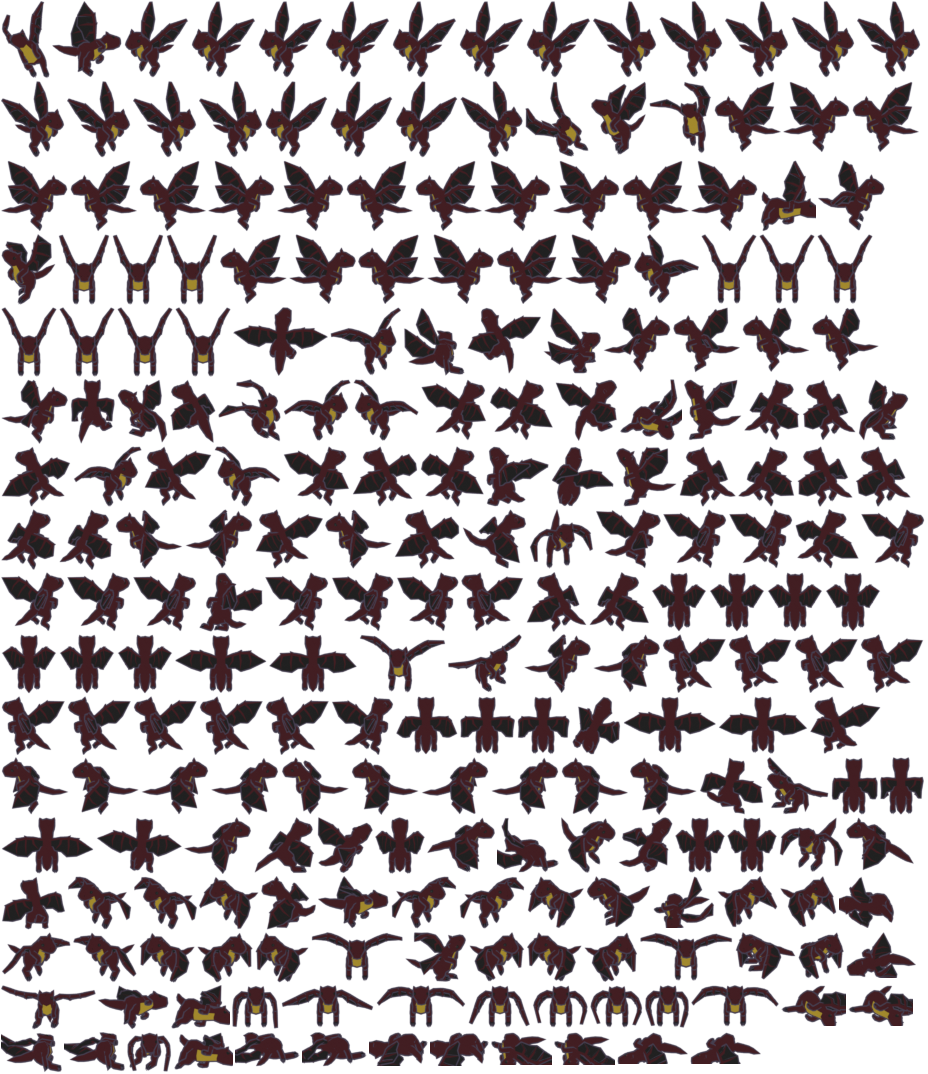
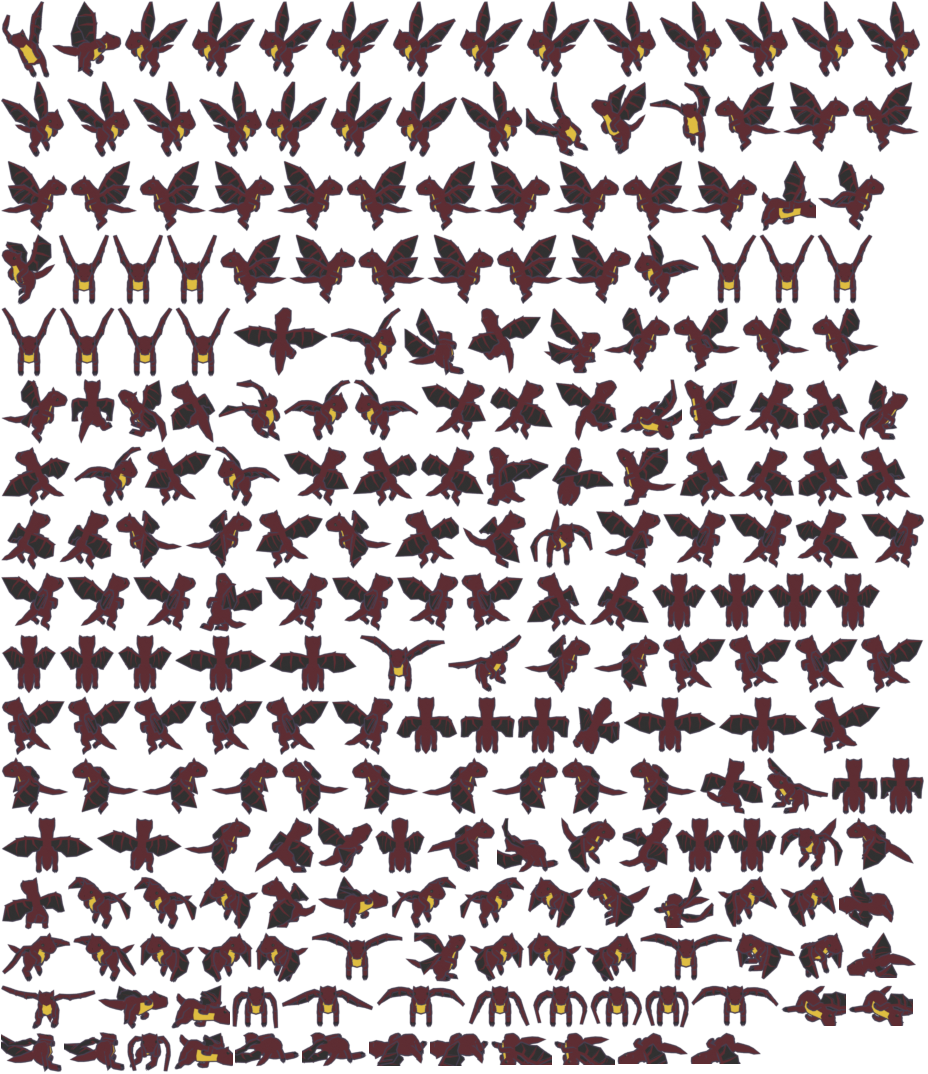
Every monster species gets a model, sprites tinted by element, brighter dragon atlas

diff --git a/shared/src/tuning.ts b/shared/src/tuning.ts
@@ -146,6 +146,8 @@ export interface Tuning {
   outfits: { rules: Array<{ minRealm: number; outfit: string }> };
   /** Which sprite model draws a species (`monster.<species>` is tried first): species id -> model key (`monster.<model>`). Several species can share one model; a species with neither is drawn as the square. */
   monsterModels: Record<string, string>;
+  /** The colour a monster sprite is multiplied by, by element (`#rrggbb`), so one model looks different in each element; an element without one is drawn in the model's own colours. */
+  monsterTints: Record<string, string>;
   /** How each map is drawn: ground details and the shape of the small obstacles (trees, rocks...), by map id; a map without an entry is drawn plain. */
   mapArt: { maps: Record<string, { ground: GroundStyle; obstacle: ObstacleStyle; mix?: ObstacleStyle[] }> };
   /** How the NPCs look: a player body with an optional outfit and weapon, by NPC id (a trailing number is ignored: `smith2` is `smith`) or else by kind. */
@@ -417,7 +419,26 @@ export const DEFAULT_TUNING: Readonly<Tuning> = {
   },
   alchemy: DEFAULT_ALCHEMY,
   outfits: { rules: [{ minRealm: 0, outfit: "ranger" }] },
-  monsterModels: { doi_u_minh: "bat", thi_quy: "skeleton", xich_thi: "skeleton", han_thi_ma: "skeleton", hoa_long_vuong: "dragon" },
+  // Only three models exist so far (bat, skeleton, dragon): flyers use the bat, undead and apes the skeleton, every beast, snake and boss the dragon.
+  monsterModels: {
+    doi_u_minh: "bat",
+    bang_phong_hac: "bat",
+    thi_quy: "skeleton",
+    xich_thi: "skeleton",
+    han_thi_ma: "skeleton",
+    quy_vuong: "skeleton",
+    tuyet_yeu_hau: "skeleton",
+    hoa_long_vuong: "dragon",
+    bang_hoang: "dragon",
+    huyet_lang_vuong: "dragon",
+    soi_rung: "dragon",
+    heo_rung: "dragon",
+    bao_dem: "dragon",
+    hoa_dien_lang: "dragon",
+    nham_giap_thu: "dragon",
+    liet_hoa_xa: "dragon",
+  },
+  monsterTints: { kim: "#ffe27a", moc: "#8fe08f", thuy: "#7ab8ff", hoa: "#ff8a6a", tho: "#d2a878", loi: "#b89cff", bang: "#a4f0ff", phong: "#a6ebd9" },
   mapArt: {
     maps: {
       town: { ground: "grass", obstacle: "tree", mix: ["tree", "tree", "tree", "bush", "bush", "stump", "rock"] },
@@ -472,6 +493,7 @@ export const TUNING_LABELS_VI: Readonly<Record<TuningGroup, string>> = {
   boss: "Boss bản đồ: thời hạn giữ, bậc trả thưởng, loài của từng bản đồ",
   alchemy: "Luyện đan của Đan Sư: số mẻ luyện cùng lúc và các công thức",
   outfits: "Trang phục hiện trên nhân vật theo cảnh giới của áo đang mặc",
+  monsterTints: "Màu phủ lên hình quái theo hệ (một mô hình trông khác nhau ở mỗi hệ)",
   monsterModels: "Hình quái: loài quái nào dùng mô hình nào (một mô hình có thể dùng chung cho nhiều loài)",
   mapArt: "Hình bản đồ: kiểu nền và kiểu vật cản nhỏ (cây, đá, cột, tinh thể) của từng bản đồ",
   npcLooks: "Hình NPC: thân nam hoặc nữ, trang phục và vũ khí, theo mã NPC hoặc theo loại NPC",
@@ -743,6 +765,8 @@ export function validTuningGroup(group: string, value: unknown): boolean {
       const table = (t: unknown): boolean => obj(t) && Object.keys(t).length <= 100 && Object.entries(t).every(([k, v]) => /^[a-z0-9_]{1,24}$/.test(k) && look(v));
       return table(value.byKind) && table(value.byId);
     }
+    case "monsterTints":
+      return Object.keys(value).length <= 20 && Object.entries(value).every(([k, v]) => /^[a-z]{1,16}$/.test(k) && typeof v === "string" && /^#[0-9a-fA-F]{6}$/.test(v));
     case "monsterModels":
       return Object.keys(value).length <= 100 && Object.entries(value).every(([k, v]) => /^[a-z0-9_]{1,24}$/.test(k) && typeof v === "string" && /^[a-z]{1,16}$/.test(v));
     case "outfits":

diff --git a/client/src/gfx/kit.ts b/client/src/gfx/kit.ts
@@ -1,5 +1,5 @@
 import Phaser from "phaser";
-import { EMPTY_MANIFEST, GFX_ANIMS, animKey, atlasesForMap, frameName, tuning, validateManifest, type GfxAnimName, type GfxManifest, type GfxSprite } from "@game/shared";
+import { EMPTY_MANIFEST, GFX_ANIMS, animKey, atlasesForMap, frameName, monsterModelOf, tuning, validateManifest, type GfxAnimName, type GfxManifest, type GfxSprite } from "@game/shared";
 
 /** Where the manifest and the atlases are served from (client/public/gfx). */
 const BASE = "/gfx/";
@@ -84,6 +84,12 @@ export class GfxView {
   }
 
   private k = 1;
+
+  /** Multiplies the sprite's colours by `color` (0xRRGGBB); undefined shows the model's own colours. */
+  setTint(color: number | undefined): void {
+    if (color === undefined) this.sprite.clearTint();
+    else this.sprite.setTint(color);
+  }
 
   /** How far above the feet the top of the head is on screen, in px (names and bars stand above it). */
   rise(): number {
@@ -274,7 +280,7 @@ export class GfxKit {
     if (!this.active) return undefined;
     // A player variant is `<body>` or `<body>.<outfit>`: the outfit sprite, then the plain body, then any player sprite.
     const candidates =
-      kind === "player" ? [...(variant ?? "").split(".").map((_, i, parts) => `player.${parts.slice(0, parts.length - i).join(".")}`).filter((k) => k !== "player."), "player"] : kind === "monster" ? [`monster.${id ?? ""}`, ...(id && tuning().monsterModels[id] ? [`monster.${tuning().monsterModels[id]}`] : [])] : kind === "weapon" ? [`weapon.${id ?? ""}.${variant ?? ""}`] : ["guard"];
+      kind === "player" ? [...(variant ?? "").split(".").map((_, i, parts) => `player.${parts.slice(0, parts.length - i).join(".")}`).filter((k) => k !== "player."), "player"] : kind === "monster" ? [`monster.${id ?? ""}`, ...(id && monsterModelOf(id) ? [`monster.${monsterModelOf(id)}`] : [])] : kind === "weapon" ? [`weapon.${id ?? ""}.${variant ?? ""}`] : ["guard"];
     for (const k of candidates) {
       if (k === "") continue;
       if (this.usable(k)) return k;

diff --git a/shared/src/map-art.test.ts b/shared/src/map-art.test.ts
@@ -1,5 +1,5 @@
 import { afterEach, describe, expect, it } from "vitest";
-import { CELLS_PER_TILE, DEFAULT_TUNING, SMALL_BLOB_CELLS, getMap, guardLookOf, hash2, isCellWalkable, mapArtOf, npcLookOf, obstacleBlobs, obstacleStyleOf, resetTuning, setTuning, validTuningGroup } from "./index";
+import { CELLS_PER_TILE, DEFAULT_TUNING, SMALL_BLOB_CELLS, getMap, guardLookOf, hash2, isCellWalkable, mapArtOf, monsterModelOf, monsterTintOf, MONSTERS, npcLookOf, obstacleBlobs, obstacleStyleOf, resetTuning, setTuning, validTuningGroup } from "./index";
 
 afterEach(() => resetTuning());
 
@@ -91,6 +91,15 @@ describe("map art and NPC looks", () => {
     expect(guardLookOf().weapon).toBeTruthy();
     setTuning({ npcLooks: { byKind: {}, byId: {} } });
     expect(guardLookOf()).toEqual(DEFAULT_TUNING.npcLooks.byKind.guard);
+  });
+
+  it("every species has a model and every element a tint, even from a table stored before they existed", () => {
+    setTuning({ monsterModels: {} });
+    for (const id of Object.keys(MONSTERS).filter((k) => k !== "ve_binh")) expect(monsterModelOf(id), id).toBeTruthy(); // a guard is a player body
+    for (const e of ["kim", "moc", "thuy", "hoa", "tho", "loi", "bang", "phong"]) expect(monsterTintOf(e), e).toBeTypeOf("number");
+    expect(monsterTintOf("nope")).toBeUndefined();
+    expect(validTuningGroup("monsterTints", DEFAULT_TUNING.monsterTints)).toBe(true);
+    expect(validTuningGroup("monsterTints", { hoa: "red" })).toBe(false);
   });
 
   it("validates both groups", () => {

diff --git a/shared/src/monster-look.ts b/shared/src/monster-look.ts
@@ -1,0 +1,12 @@
+import { DEFAULT_TUNING, tuning } from "./tuning";
+
+/** The sprite model of a species from the tuning `monsterModels` (a stored table from before a species got a model falls back to the default one). */
+export function monsterModelOf(species: string): string | undefined {
+  return tuning().monsterModels[species] ?? DEFAULT_TUNING.monsterModels[species];
+}
+
+/** The colour (0xRRGGBB) a monster sprite of this element is multiplied by, or undefined to keep the model's colours. */
+export function monsterTintOf(element: string): number | undefined {
+  const hex = tuning().monsterTints[element];
+  return hex && /^#[0-9a-fA-F]{6}$/.test(hex) ? parseInt(hex.slice(1), 16) : undefined;
+}

diff --git a/client/src/scene.ts b/client/src/scene.ts
@@ -41,6 +41,7 @@ import {
   isMapId,
   mapArtOf,
   guardLookOf,
+  monsterTintOf,
   npcLookOf,
   playRectPixels,
   portalNear,
@@ -1605,6 +1606,7 @@ export class GameScene extends Phaser.Scene {
     }
     const scale = (look?.scale ?? 1) * (m.boss ? 2 : m.rank === "rare2" ? 1.4 : m.rank === "rare1" ? 1.2 : 1);
     m.view.setScale(scale);
+    if (!look) m.view.setTint(monsterTintOf(m.element)); // one model, a colour for each element
     m.view.play(positionAlongPath(m.path, now - m.startedAt, m.speed).moving ? "run" : "idle", headingAlongPath(m.path, now - m.startedAt, m.speed) ?? m.view.dir);
     if (!m.view.alive) return;
     m.view.place(x, y, depth);

diff --git a/shared/src/index.ts b/shared/src/index.ts
@@ -35,6 +35,7 @@ export * from "./gear-names";
 export * from "./outfit";
 export * from "./art-styles";
 export * from "./map-art";
+export * from "./monster-look";
 export * from "./npc-look";
 export * from "./smith";
 export * from "./gear-master";

diff --git a/docs/PHASE4.md b/docs/PHASE4.md
@@ -175,6 +175,7 @@ Một lệnh biến một mô hình có xương và animation thành atlas: `nod
   - **Vệ binh dùng chung `npcLooks`:** vệ binh là thân người chơi theo `npcLooks.byKind.guard` (mặc định nam, Ranger, cầm thương, `scale` 1,5), có sprite vũ khí theo khung của thân; trường `scale` mới (0,5 đến 3) của `NpcLook` cũng dùng được cho NPC. Bảng đã lưu không có `guard` thì `guardLookOf` lấy mặc định. Sprite `guard` cũ trong manifest không còn dùng.
   - **Phi hành:** khi cưỡi pháp bảo bay, thân đứng yên (luôn `idle`) dù đang di chuyển; chỉ vung tay khi đánh hoặc ra chiêu (đòn một lần vẫn chạy bình thường).
   - **Đã xem trên máy bàn (WebGL):** rừng, hang, Xích Diễm Sơn (nền, vật cản); vệ binh trong hang đổi từ thân trơn sang Ranger khi atlas tải xong (khóa `player.male.ranger`, vũ khí `weapon.thuong.male`, tỉ lệ 1,5) ; phi hành: đặt đường đi giả cho nhân vật, đi bộ ra `run`, cưỡi bay ra `idle`. Chưa xem Thiên Hà Thành, Vạn Cổ Hàn Uyên và cảnh phi hành khi đánh quái thật; đòn của vệ binh vẫn dùng hiệu ứng đánh thường của quái (không theo cây thương). Chưa có màn Admin để sửa `mix` và `guard` (4i).
+- **Quái dùng chung mô hình và phủ màu theo hệ (2026-10-28, nhánh `features_gfx-monster-tint`):** mới có ba mô hình (dơi, bộ xương, rồng) nên `monsterModels` mặc định gán mọi loài quái vào một trong ba: bay lượn (Dơi U Minh, Băng Phong Hạc) dùng dơi; xác sống và vượn (Thi Quỷ, Xích Thi, Hàn Thi Ma, U Minh Quỷ Vương, Tuyết Yêu Hầu) dùng bộ xương; thú, rắn và boss còn lại (Sói Rừng, Heo Rừng, Báo Đêm, Hỏa Diễm Lang, Nham Giáp Thú, Liệt Hỏa Xà, Huyết Lang Vương, Băng Hoàng, Xích Diễm Long Vương) dùng "rồng". **Đây là hình tạm: sói, heo, báo, rắn vẫn chưa có mô hình đúng loài** (cần gói mô hình mới, người dùng duyệt tải). Nhóm mới `monsterTints` (hệ → `#rrggbb`, nhân vào màu sprite, không cần migration vì nhóm mới được gieo khi có người vào game) làm cùng một mô hình trông khác ở mỗi hệ; vệ binh không phủ màu. Bảng `monsterModels` đã lưu trước đây thiếu loài nào thì `monsterModelOf` lấy mặc định. Mô hình rồng tối nên phủ màu nhân gần như không thấy: đã dựng lại atlas rồng với `autoColors` 4,5 (manifest 46). Phủ màu kiểu nhân không làm sáng thêm được, nên màu hệ vẫn khá tối trên rồng (đã xem trên máy bàn).
 - **Chưa có màn Admin cho bốn nhóm `outfits`, `monsterModels`, `mapArt`, `npcLooks`:** chúng là dữ liệu D1 (đổi được bằng cách sửa dòng `game_tuning`), nhưng trang "Chỉ số khác" chỉ sửa được các con số, nên màn riêng thuộc 4i. (Các câu "Admin sửa được" trước đây cho `outfits` và `monsterModels` nói quá.)
 - **Đã kiểm:** typecheck, 968 test (`shared/src/map-art.test.ts` mới: mọi ô bị chặn thuộc đúng một cụm và tổng ô khớp, cụm nhỏ và lớn, biến thể ổn định, băm, luật tra NPC, kiểm hợp lệ hai nhóm; `client/src/perf-ui.test.ts` mới), trình duyệt local ở rừng, Thiên Hà Thành (NPC bằng sprite) và Xích Diễm Sơn.
 - **Chưa kiểm:** hang, Thiên Hà Thành (`town2`) và Vạn Cổ Hàn Uyên bằng mắt; nhìn trên điện thoại thật; cảm giác của cây (hình còn đơn giản); mảnh bản đồ dựng chậm khi chạy nhanh trên máy yếu (mỗi khung dựng tối đa 4 mảnh).
